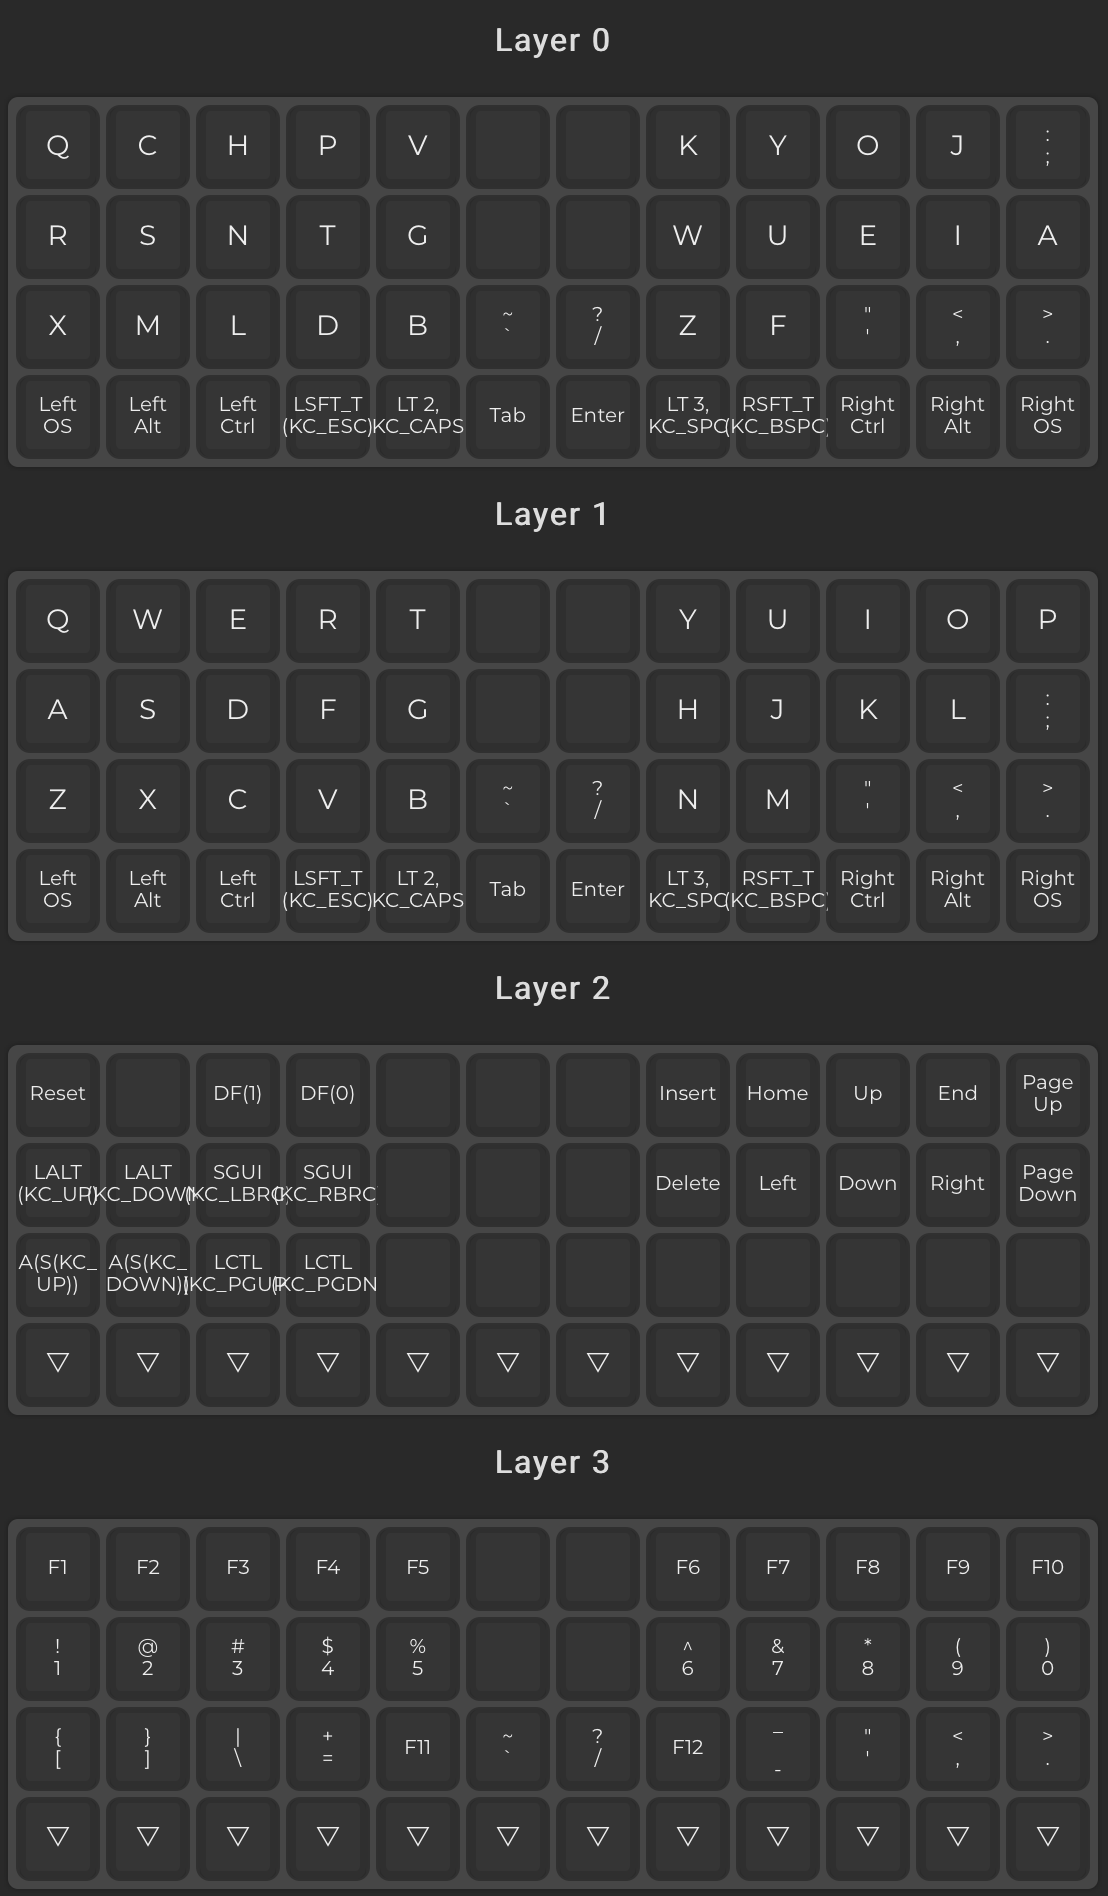
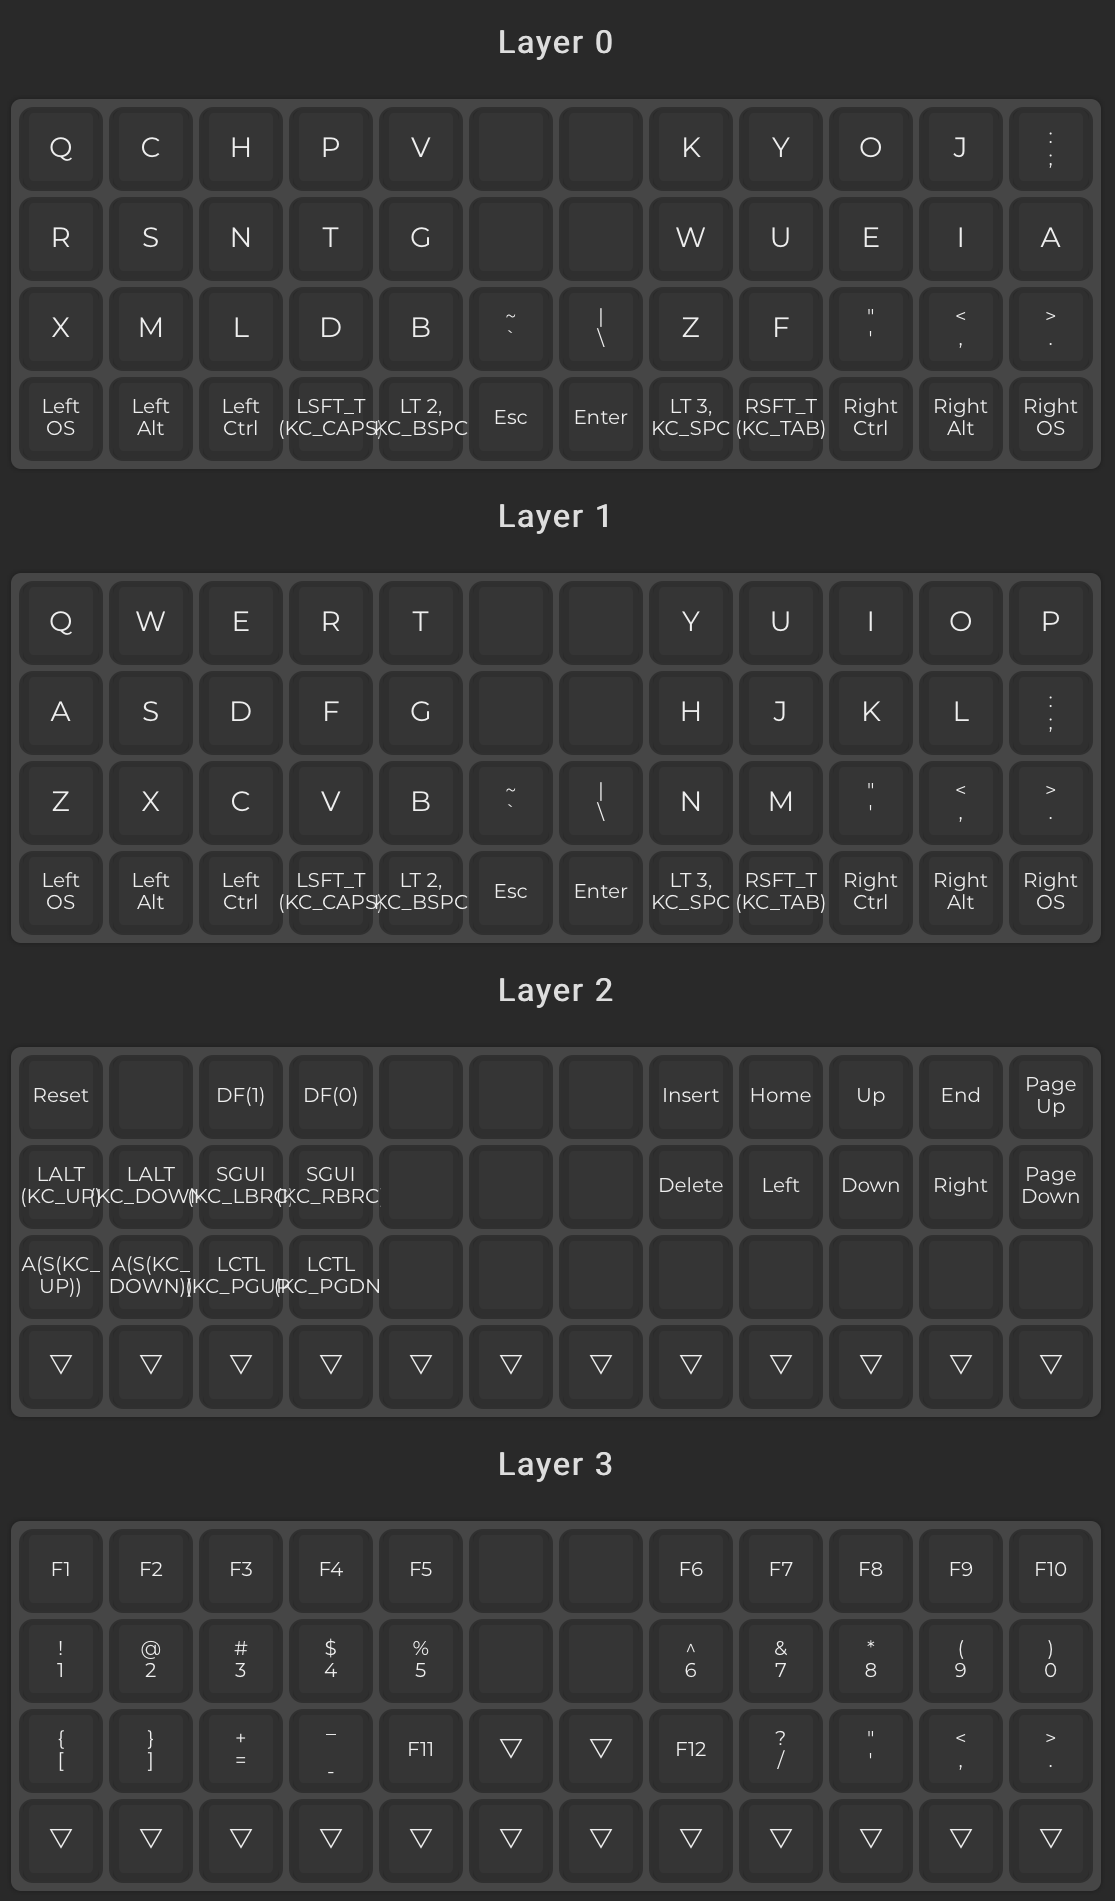
Rotate num layer

diff --git a/keymap.c b/keymap.c
@@ -7,8 +7,8 @@
  */
 
 const uint16_t PROGMEM keymaps[][MATRIX_ROWS][MATRIX_COLS] = {
-	[0] = LAYOUT_ortho_4x12(KC_Q, KC_C, KC_H, KC_P, KC_V, KC_NO, KC_NO, KC_K, KC_Y, KC_O, KC_J, KC_SCLN, KC_R, KC_S, KC_N, KC_T, KC_G, KC_NO, KC_NO, KC_W, KC_U, KC_E, KC_I, KC_A, KC_X, KC_M, KC_L, KC_D, KC_B, KC_GRV, KC_SLSH, KC_Z, KC_F, KC_QUOT, KC_COMM, KC_DOT, KC_LGUI, KC_LALT, KC_LCTL, LSFT_T(KC_ESC), LT(2,KC_CAPS), KC_TAB, KC_ENT, LT(3,KC_SPC), RSFT_T(KC_BSPC), KC_RCTL, KC_RALT, KC_RGUI),
-	[1] = LAYOUT_ortho_4x12(KC_Q, KC_W, KC_E, KC_R, KC_T, KC_NO, KC_NO, KC_Y, KC_U, KC_I, KC_O, KC_P, KC_A, KC_S, KC_D, KC_F, KC_G, KC_NO, KC_NO, KC_H, KC_J, KC_K, KC_L, KC_SCLN, KC_Z, KC_X, KC_C, KC_V, KC_B, KC_GRV, KC_SLSH, KC_N, KC_M, KC_QUOT, KC_COMM, KC_DOT, KC_LGUI, KC_LALT, KC_LCTL, LSFT_T(KC_ESC), LT(2,KC_CAPS), KC_TAB, KC_ENT, LT(3,KC_SPC), RSFT_T(KC_BSPC), KC_RCTL, KC_RALT, KC_RGUI),
+	[0] = LAYOUT_ortho_4x12(KC_Q, KC_C, KC_H, KC_P, KC_V, KC_NO, KC_NO, KC_K, KC_Y, KC_O, KC_J, KC_SCLN, KC_R, KC_S, KC_N, KC_T, KC_G, KC_NO, KC_NO, KC_W, KC_U, KC_E, KC_I, KC_A, KC_X, KC_M, KC_L, KC_D, KC_B, KC_GRV, KC_BSLS, KC_Z, KC_F, KC_QUOT, KC_COMM, KC_DOT, KC_LGUI, KC_LALT, KC_LCTL, LSFT_T(KC_CAPS), LT(2,KC_BSPC), KC_ESC, KC_ENT, LT(3,KC_SPC), RSFT_T(KC_TAB), KC_RCTL, KC_RALT, KC_RGUI),
+	[1] = LAYOUT_ortho_4x12(KC_Q, KC_W, KC_E, KC_R, KC_T, KC_NO, KC_NO, KC_Y, KC_U, KC_I, KC_O, KC_P, KC_A, KC_S, KC_D, KC_F, KC_G, KC_NO, KC_NO, KC_H, KC_J, KC_K, KC_L, KC_SCLN, KC_Z, KC_X, KC_C, KC_V, KC_B, KC_GRV, KC_BSLS, KC_N, KC_M, KC_QUOT, KC_COMM, KC_DOT, KC_LGUI, KC_LALT, KC_LCTL, LSFT_T(KC_CAPS), LT(2,KC_BSPC), KC_ESC, KC_ENT, LT(3,KC_SPC), RSFT_T(KC_TAB), KC_RCTL, KC_RALT, KC_RGUI),
 	[2] = LAYOUT_ortho_4x12(RESET, KC_NO, DF(1), DF(0), KC_NO, KC_NO, KC_NO, KC_INS, KC_HOME, KC_UP, KC_END, KC_PGUP, LALT(KC_UP), LALT(KC_DOWN), SGUI(KC_LBRC), SGUI(KC_RBRC), KC_NO, KC_NO, KC_NO, KC_DEL, KC_LEFT, KC_DOWN, KC_RGHT, KC_PGDN, A(S(KC_UP)), A(S(KC_DOWN)), LCTL(KC_PGUP), LCTL(KC_PGDN), KC_NO, KC_NO, KC_NO, KC_NO, KC_NO, KC_NO, KC_NO, KC_NO, KC_TRNS, KC_TRNS, KC_TRNS, KC_TRNS, KC_TRNS, KC_TRNS, KC_TRNS, KC_TRNS, KC_TRNS, KC_TRNS, KC_TRNS, KC_TRNS),
-	[3] = LAYOUT_ortho_4x12(KC_F1, KC_F2, KC_F3, KC_F4, KC_F5, KC_NO, KC_NO, KC_F6, KC_F7, KC_F8, KC_F9, KC_F10, KC_1, KC_2, KC_3, KC_4, KC_5, KC_NO, KC_NO, KC_6, KC_7, KC_8, KC_9, KC_0, KC_LBRC, KC_RBRC, KC_BSLS, KC_EQL, KC_F11, KC_GRV, KC_SLSH, KC_F12, KC_MINS, KC_QUOT, KC_COMM, KC_DOT, KC_TRNS, KC_TRNS, KC_TRNS, KC_TRNS, KC_TRNS, KC_TRNS, KC_TRNS, KC_TRNS, KC_TRNS, KC_TRNS, KC_TRNS, KC_TRNS)
+	[3] = LAYOUT_ortho_4x12(KC_F1, KC_F2, KC_F3, KC_F4, KC_F5, KC_NO, KC_NO, KC_F6, KC_F7, KC_F8, KC_F9, KC_F10, KC_1, KC_2, KC_3, KC_4, KC_5, KC_NO, KC_NO, KC_6, KC_7, KC_8, KC_9, KC_0, KC_LBRC, KC_RBRC, KC_EQL, KC_MINS, KC_F11, KC_TRNS, KC_TRNS, KC_F12, KC_SLSH, KC_QUOT, KC_COMM, KC_DOT, KC_TRNS, KC_TRNS, KC_TRNS, KC_TRNS, KC_TRNS, KC_TRNS, KC_TRNS, KC_TRNS, KC_TRNS, KC_TRNS, KC_TRNS, KC_TRNS)
 };
